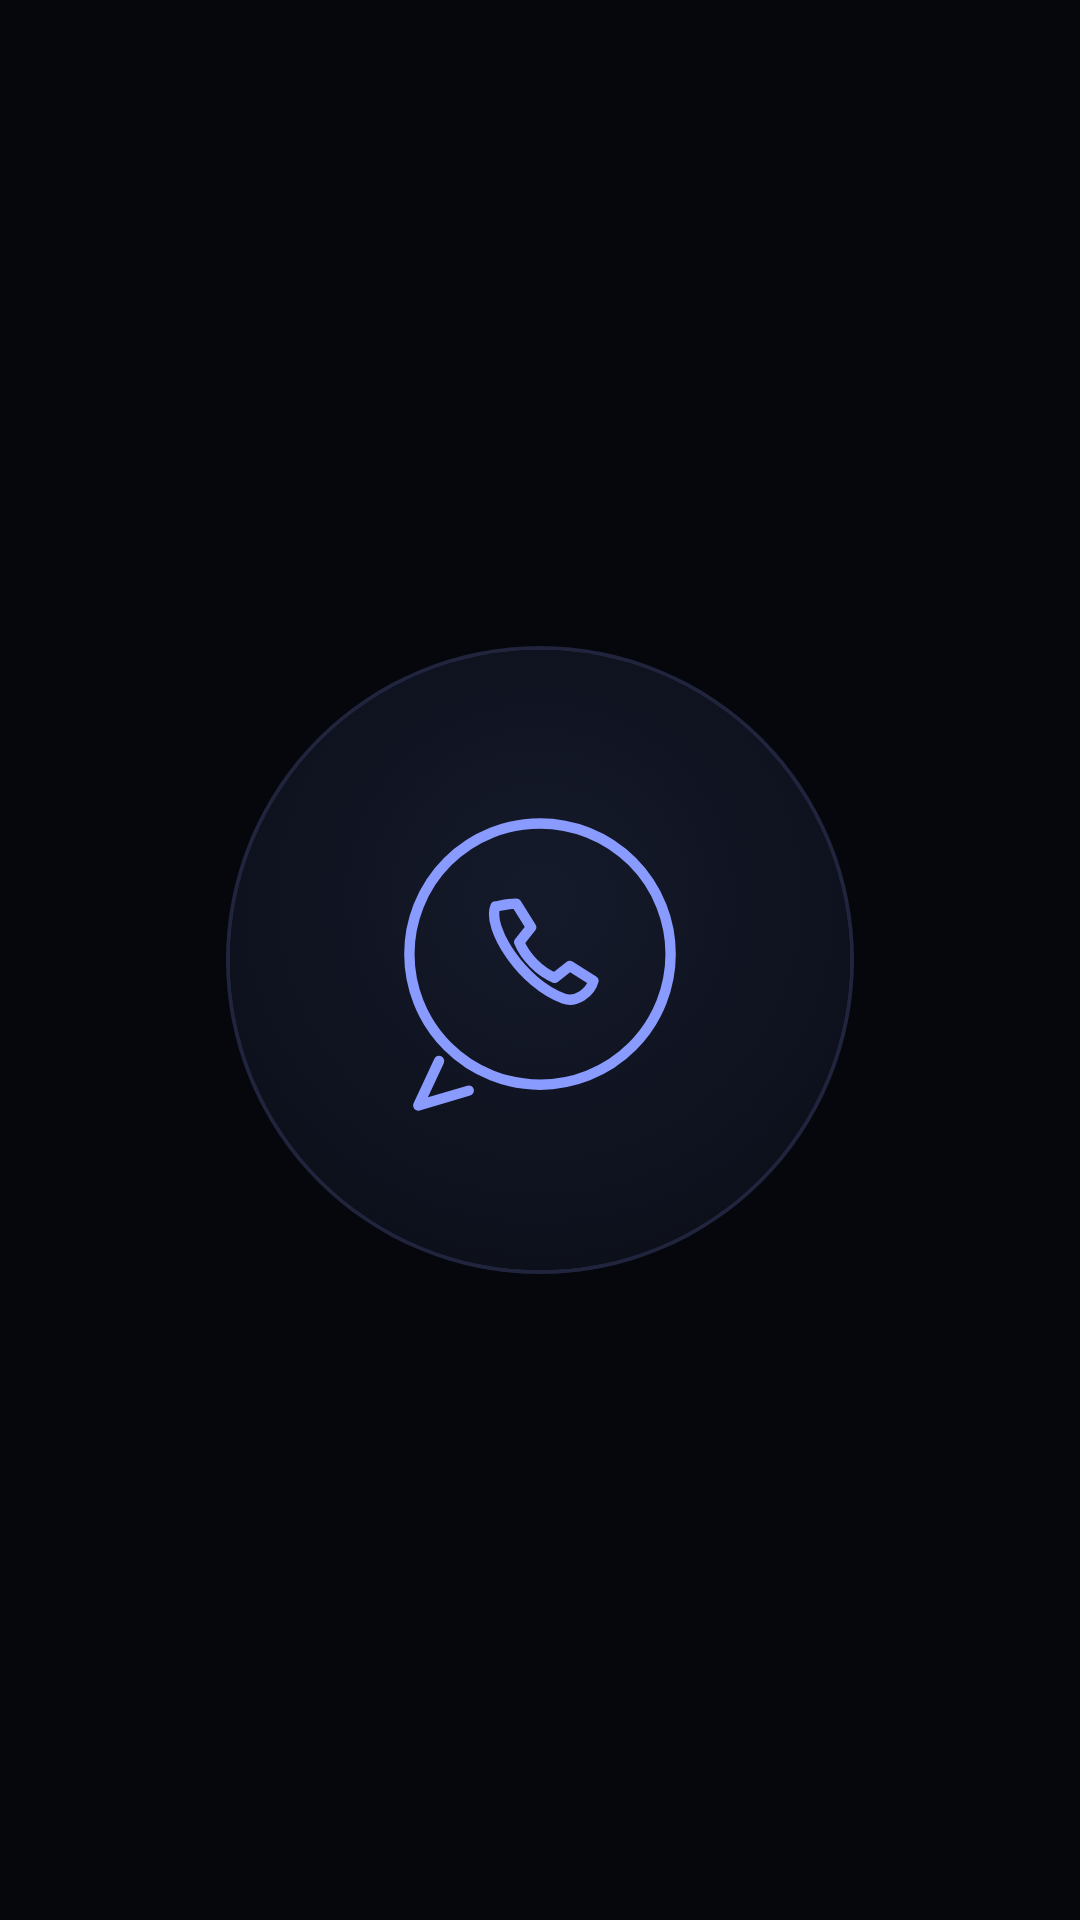
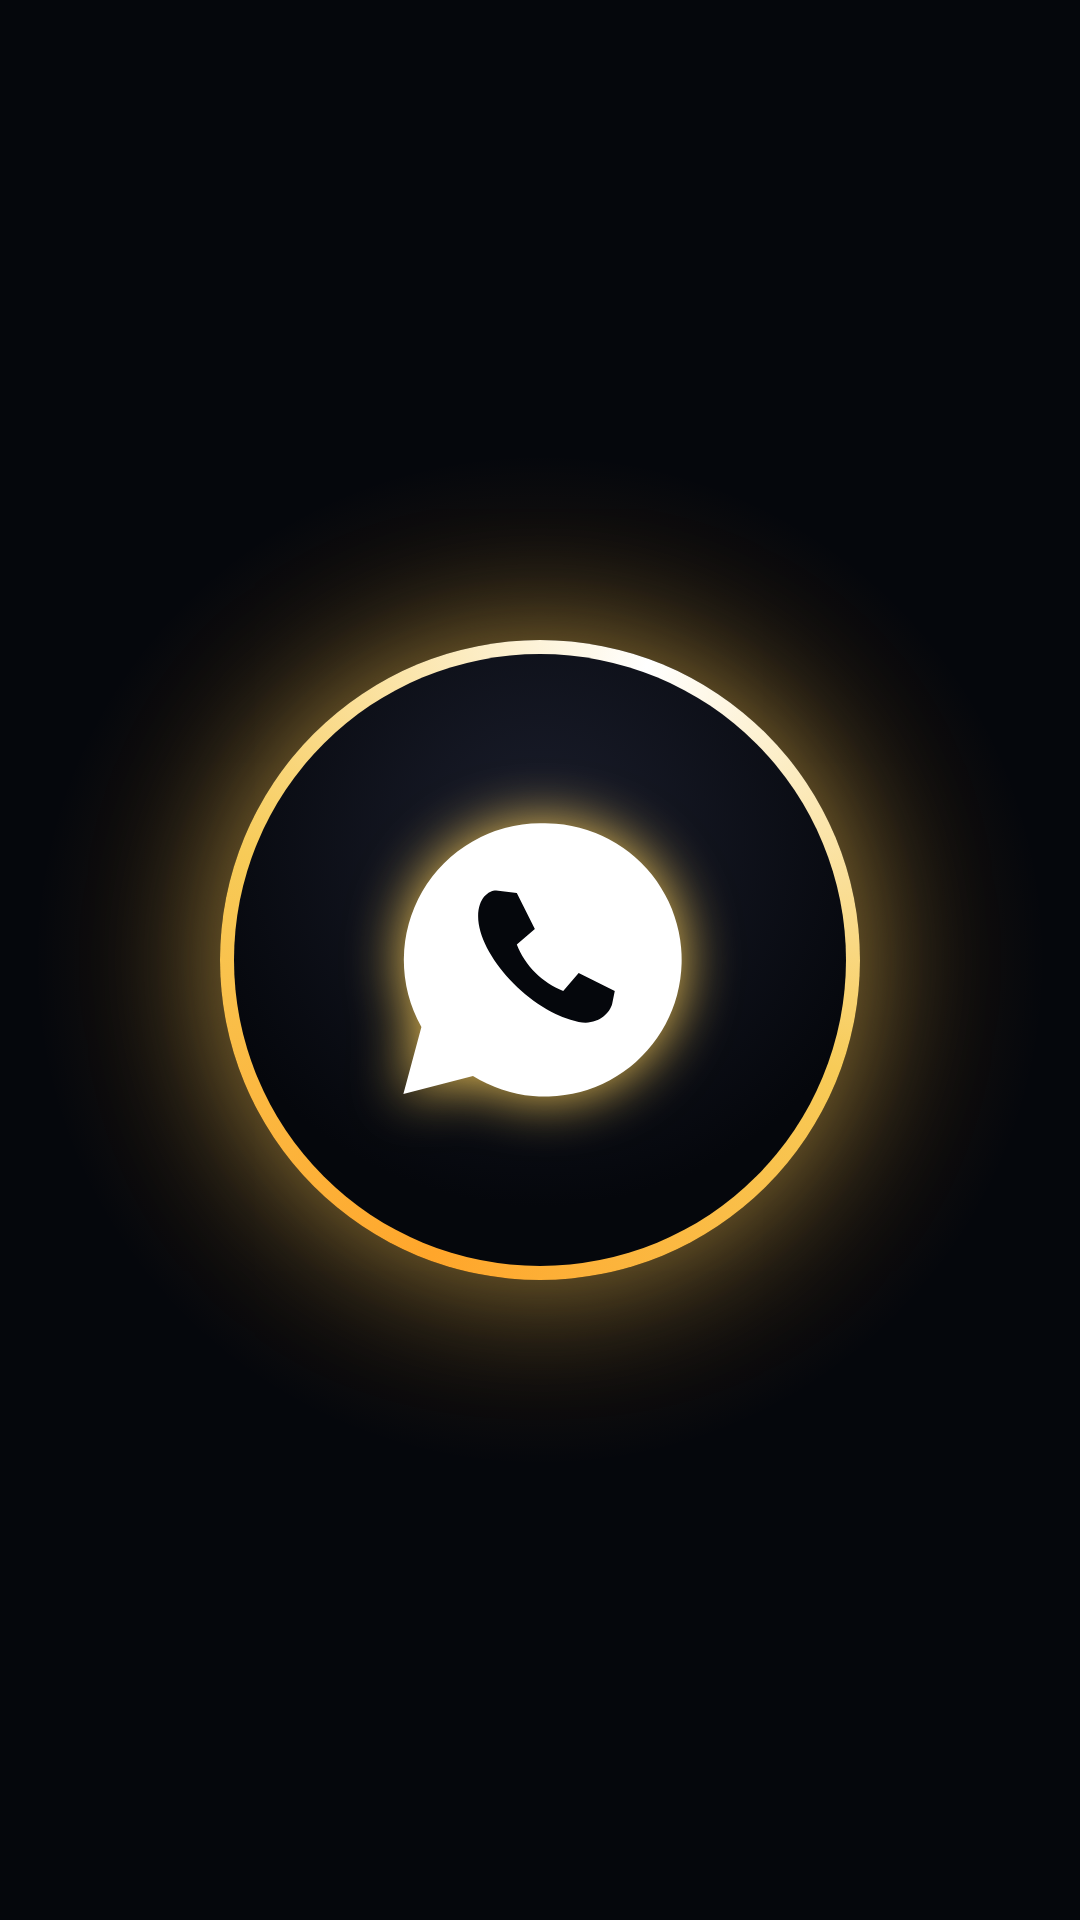
Instagram: portadas de destacadas nuevas con los colores de la franja de luz de 3R
Claude-Session: https://claude.ai/code/session_01Hojnh5FdPRZ4h73tXWRtF2

Changed region(s): [[0.1222, 0.2812, 0.8861, 0.7188], [0.3361, 0.4062, 0.6722, 0.5938]]

diff --git a/marketing/instagram/perfil/README.md b/marketing/instagram/perfil/README.md
@@ -16,7 +16,7 @@ Comenta PRECIOS en cualquier post 👇
 - Categoría: Diseñador de sitios web.
 - Botón de contacto: WhatsApp 310 790 7194.
 
-## Destacadas (portadas en esta carpeta, en este orden)
+## Destacadas (portadas en esta carpeta, en este orden; versión 2 del 28 oct: cada una toma un color de la franja de luz de 3R, azul → lila → rosado → coral → amarillo, y juntas forman el degradado en el perfil. Al subirlas, ajustar el círculo de Instagram al aro de color)
 1. Precios: `destacada-precios.png`. Las imágenes del carrusel de precios c13 cuando salga (14 nov).
 2. Trabajos: `destacada-trabajos.png`. Los reels de Azul Caribe (4 idiomas), 3R Burgers y Caprichos compartidos en historias.
 3. Cómo funciona: `destacada-funciona.png`. El carrusel del 6 oct («¿Qué pasa después de pedir tu página?»).
